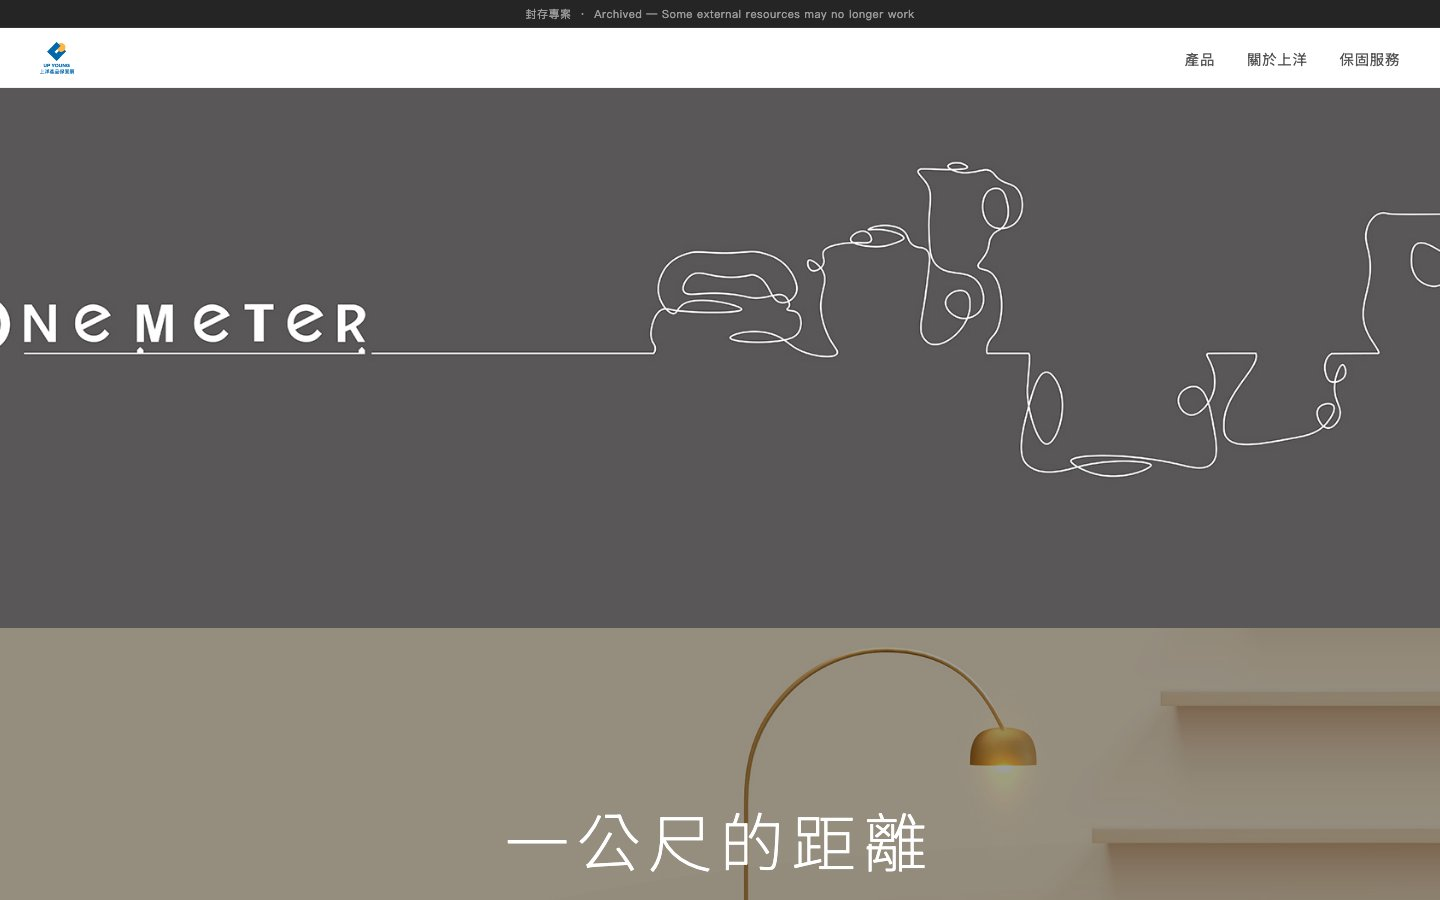
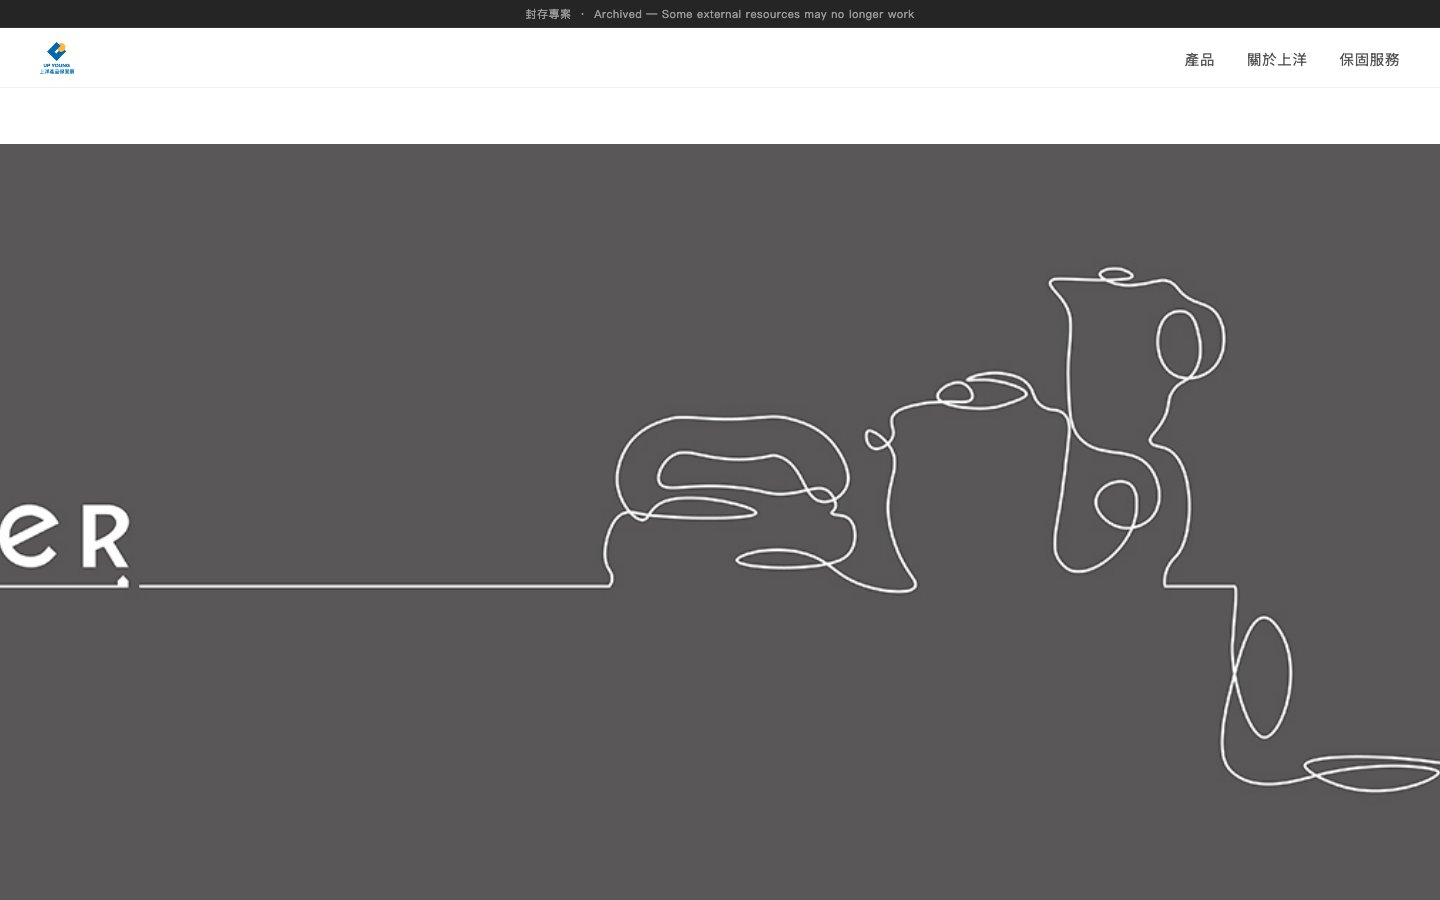
fix 211014_onemeter layout: 100vh hero, 10% main padding, 1% section bottom padding

diff --git a/project/211014_onemeter/index.html b/project/211014_onemeter/index.html
@@ -64,20 +64,20 @@
     }
     .nav__links a:hover { color: #111; }
 
-    /* ── Page wrapper ─────────────────────────────────────────── */
-    .main { padding-top: calc(28px + 60px); }
+    /* ── Page wrapper (original: padding-top: 10%) ───────────── */
+    .main { padding-top: max(10%, 90px); }
 
     /* ── Hero ─────────────────────────────────────────────────── */
     .hero { position: relative; width: 100%; }
     .hero__img {
-      width: 100%; height: 60vh; min-height: 320px;
+      width: 100%; height: 100vh; min-height: 480px;
       object-fit: cover; display: block;
     }
 
     /* ── Slogan ───────────────────────────────────────────────── */
     .slogan {
       position: relative; overflow: hidden;
-      min-height: 56vh;
+      min-height: 100vh;
       display: flex; align-items: center; justify-content: center;
     }
     .slogan__bg { position: absolute; inset: 0; }
@@ -98,17 +98,17 @@
 
     /* ── Brand intro ──────────────────────────────────────────── */
     .brand {
-      padding: 10% 6%;
+      padding: 8% 6%;
       max-width: 820px; margin: 0 auto;
       text-align: center;
     }
     .brand h2 { font-weight: 300; margin-bottom: 1.5rem; }
     .brand p   { color: #555; margin-bottom: .8rem; }
 
-    /* ── Product sections ─────────────────────────────────────── */
+    /* ── Product sections (original: padding 12% 50px 1%) ──────── */
     .prods {
       position: relative; width: 100%;
-      padding: 12% 50px 8%;
+      padding: 12% 50px 1%;
     }
     /* CSS diagonal cut (from original) */
     .prods::after {
@@ -161,8 +161,8 @@
 
     /* 3D isometric button (from original) */
     a.button {
-      display: inline-block; margin-top: 12px;
-      padding: 2px 10px; color: #4a4a4a;
+      display: inline-block; margin-top: 12px; margin-bottom: 10px;
+      padding: 2px 10px; color: #4a4a4a; vertical-align: middle;
       background-color: #f6f6f6; position: relative;
       transition: all .5s; font-size: 1rem;
     }